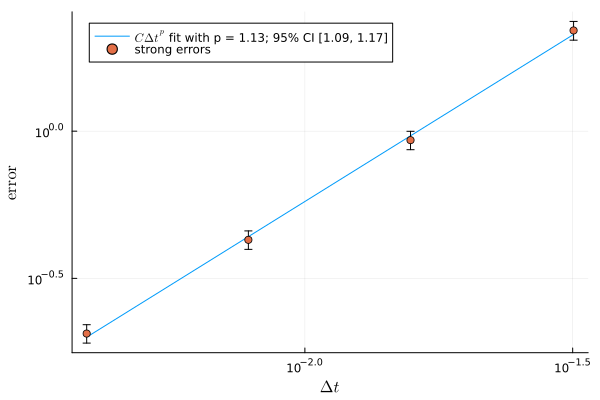
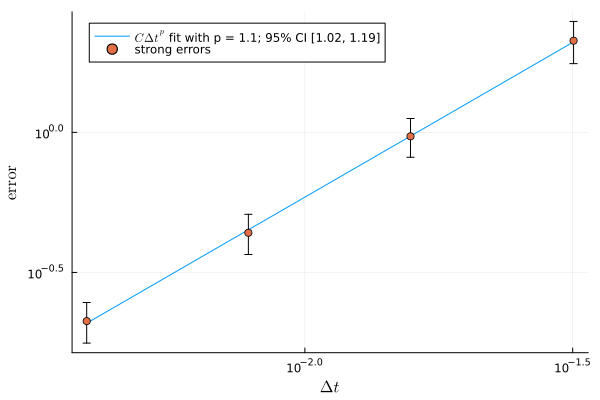
reduce monte carlo

diff --git a/docs/src/examples/08-earthquake.md b/docs/src/examples/08-earthquake.md
@@ -205,7 +205,7 @@ Now we are ready to check the order of convergence. We set the target resolution
 ````@example 08-earthquake
 ntgt = 2^18
 ns = 2 .^ (6:9)
-m = 500 # 1_000
+m = 100 # 1_000
 nothing # hide
 ````
 
